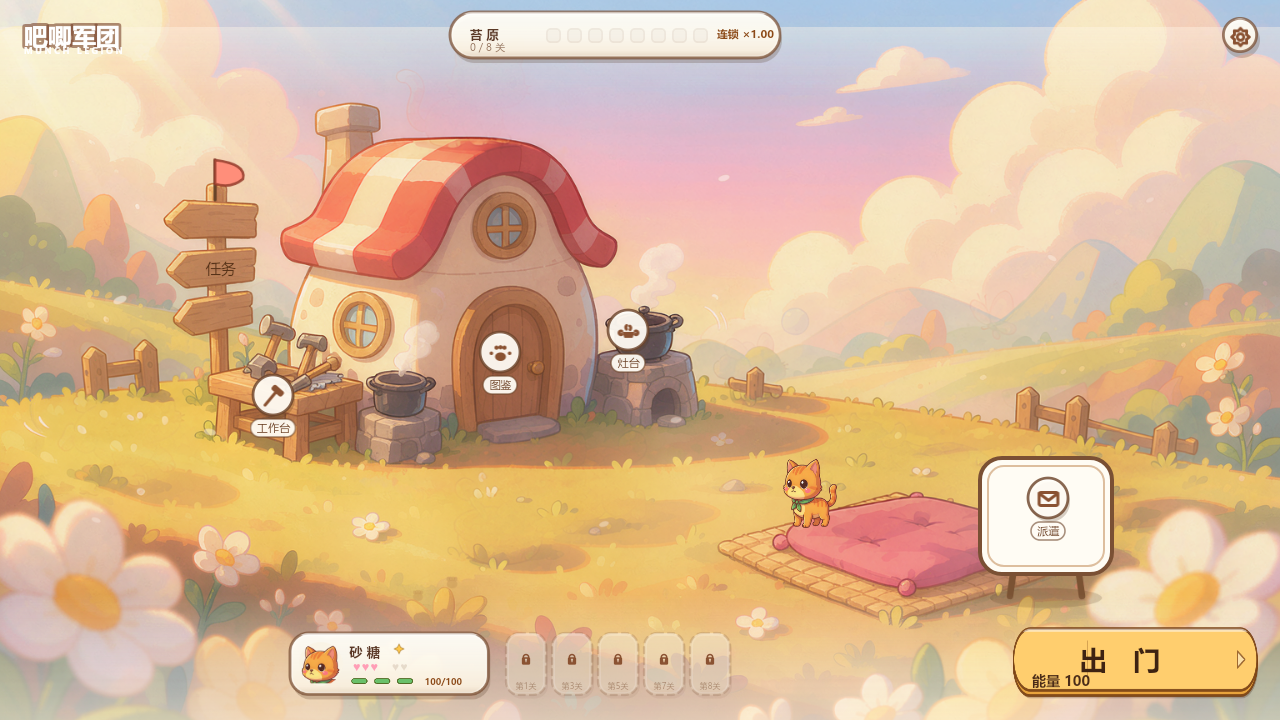
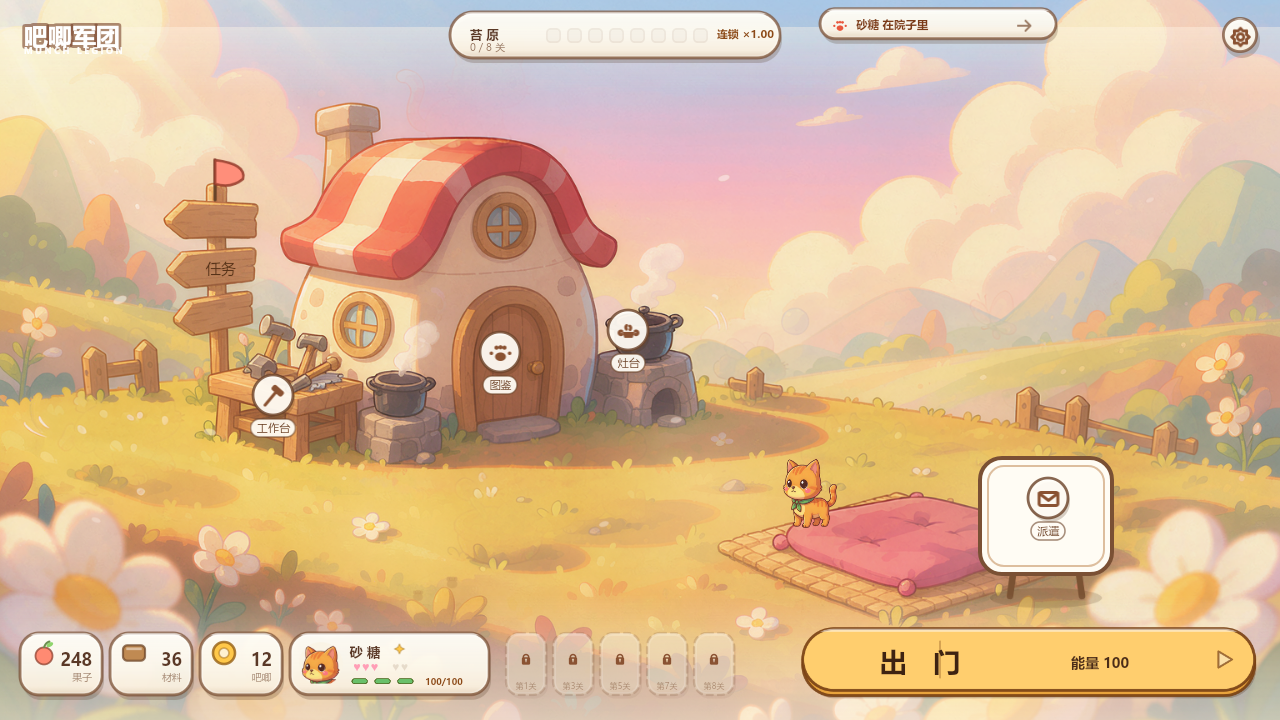
主界面：资源卡搬回 Dock、出门按钮填满空档（补前一个提交漏掉的真 bug）
前一个提交（1b07afd）修了任务/派遣/工作台三处，但用户说的"位置也不对"
还有两个真问题没碰到 —— 它们是离线渲染器自己看不见，才一直没被发现。

一、三张资源卡被搬到右上，整块压在提示条上
  placeResources() 里写的是 right=568 / top=346，也就是把果子/材料/吧唧
  挪到右上角"给院子中间留空"。但那块地方已经有 HudTip（屏幕 965..1208 / 6..46）：
  果子卡 925..1014、材料卡 1022..1111、吧唧卡 1119..1208 ——
  后两张**整块盖在提示条上**。而 Dock 左端 17..282 反过来空出 265px。

  这不是估计，是矩形相交：本次给 _home-rt-shot.js 的 --audit 加了
  "坐标/尺寸是 NaN 就报警"，一跑就报 `HudTip 坐标/尺寸是 NaN：pos(NaN,...)`。

  根因在替身，不在业务代码：`_mock-cc.js` 的 UITransform 缺
  `anchorX` / `anchorY` 两个存取器（真引擎里有）。于是
  `left + w * ut.anchorX` 算出 NaN，节点被 setPosition(NaN,NaN) ——
  **画面上直接消失，而且不报错**。三张资源卡因此在离线渲染里
  凭空失踪了好几轮，"这个位置压着提示条"这件事谁都看不见。

  改：补上 anchorX/anchorY；placeResources 不再搬卡，只把间距从 88 改成 90
  （89 宽的卡按 88 排，相邻两张压 1px，两条 4px 深棕描边叠起来会出现
  一条双倍深的竖线）。三张卡回到 17..286，宠物卡 287 正好接上。

二、出门按钮右侧 278px 空档
  按钮上一版被砍到 248 宽、右缘贴 1260，左边从"星屑"槽的 734
  一路空到 1012 —— 占屏宽 22%，整条底栏读成"左边一堆 + 右边一个孤零零的按钮"。
  改 460 宽（右缘仍 1260，离屏 20），链到槽位后面留 62px 分隔。
  460 不是新数字：场景里这个按钮本来就画成 509 宽，是运行时砍到 248 的。
  按钮变宽后"能量 100"改成居中，否则贴左边、右边一大块空像漏了内容。

三、5 个锁定槽原来按 46 排、卡宽 47 —— 每对相邻槽位也压 1px，
  同样会出双倍深的竖线。改成 47（503/550/597/644/691），正好相接不重叠。

四、_rt-check 的替身补挂场景里的 Label
  以前 buildScene 只挂 UITransform，于是 `getChildByName('line')
  .getComponent(Label)` 拿到 null —— bindDock 里对着 Label 设 alignment
  就崩，而真引擎里那个节点**是有 Label 的**。替身比真引擎少一个组件，
  报出来的错就指错地方。

验收：verify-scene 17/17 · _rt-check 57/57 · align-home-check 0 不过关 ·
HomeRuntime 0 类型错误。
矩形复核（屏幕坐标）：HudProgress 447..784 / HudTip 817..1060 / IconBtn 1219..1262
[…]

diff --git a/client/assets/scripts/HomeRuntime.ts b/client/assets/scripts/HomeRuntime.ts
@@ -577,42 +577,37 @@ class HomeController {
         this.refreshSatiety();
     }
 
-    /** 果子 / 材料 / 吧唧排到右上，给院子中间和左下的宠物留空。 */
+    /**
+     * 三张资源卡**留在 Dock 左端**，并排贴紧。
+     *
+     * 上一版把它们搬到右上角（right=568 / top=346）。那个位置和提示条
+     * HudTip（屏幕 965..1208 / 6..46）**整块重叠** —— 果子卡 925..1014、
+     * 材料卡 1022..1111、吧唧卡 1119..1208，后两张直接盖在提示条上。
+     * 这就是用户说的"位置也不对"。而 Dock 左端 17..282 反过来空出 265px，
+     * 一格宽的空洞比放三张卡还显眼。
+     *
+     * 而且 Dock 本来就是按"左边三张资源卡"排的：宠物卡起点 287
+     * 正好接在 282 后面。所以正确的做法不是给卡找新位置，是**别动它们**。
+     *
+     * 只修一处：场景里三张卡是 89 宽、间距 88，相邻两张压 1px。
+     * 1px 重叠在纯色卡上看不出来，但两张卡都有 4px 深棕描边，
+     * 叠起来会在交界处出现一条双倍深的竖线。改成间距 90（留 1px 缝）。
+     */
     private placeResources() {
         const dock = this.canvas.getChildByName('Dock');
         if (!dock) return;
         const names = ['Res-Apple', 'Res-Log', 'Res-Coin'];
-        const cards: { n: Node; ut: UITransform }[] = [];
+        const LEFT = -623;   // 屏幕 x 17
+        const TOP = -270;    // 屏幕 y 630
+        const GAP = 1;
+        let x = LEFT;
         for (const name of names) {
             const n = dock.getChildByName(name);
             const ut = n && n.getComponent(UITransform);
-            if (n && ut) cards.push({ n, ut });
-        }
-        const gap = 8;
-        const right = 568;
-        const top = 346;
-        const total = cards.reduce((s, c) => s + c.ut.contentSize.width, 0) + gap * Math.max(0, cards.length - 1);
-        let left = right - total;
-        let cardH = 72;
-        for (const c of cards) {
-            const w = c.ut.contentSize.width;
-            cardH = c.ut.contentSize.height;
-            c.n.setPosition(left + w * c.ut.anchorX, top - cardH * (1 - c.ut.anchorY), 0);
-            left += w + gap;
-        }
-
-        /* 提示条原来横在资源卡上面。挪到这一排的下沿，避免和果子叠在一起。 */
-        const tip = this.canvas.getChildByName('HUD')?.getChildByName('HudTip');
-        const tut = tip && tip.getComponent(UITransform);
-        if (tip && tut) {
-            const tw = tut.contentSize.width;
-            const th = tut.contentSize.height;
-            const tipTop = top - cardH - 8;
-            tip.setPosition(
-                right - tw * (1 - tut.anchorX),
-                tipTop - th * (1 - tut.anchorY),
-                0,
-            );
+            if (!n || !ut) continue;
+            /* 两张卡的锚点都是左上，所以 position 就是左上角，不用再算 anchor */
+            n.setPosition(x, TOP, 0);
+            x += ut.contentSize.width + GAP;
         }
     }
 
@@ -950,22 +945,39 @@ class HomeController {
         const root = this.canvas.getChildByName('Dock');
         if (!root) return;
 
-        /* —— 主行动：出门。收到右下角，不再横在院子下沿 —— */
+        /* —— 主行动：出门。收到右下角，但不留空洞 ——
+         *
+         * 上一版 248 宽：按钮右缘贴到 1260，左边就从"星屑"槽的 734
+         * 一路空到 1012 —— 278px、占屏宽 22% 的空洞。
+         * 整条底栏读成"左边一堆东西 + 右边一个孤零零的按钮"。
+         *
+         * 460 宽：右缘仍在 1260（离屏 20），左缘落在 800，
+         * 和槽位之间留 66px 的分隔。460 也不是新数字 ——
+         * 场景里这个按钮本来就画成 509 宽，是运行时把它砍到 248 的。
+         */
+        const GW = 460;
         const go = root.getChildByName('Btn-Go');
         if (go) {
             const gut = go.getComponent(UITransform);
             if (gut) {
-                gut.setContentSize(248, 76);
+                gut.setContentSize(GW, 76);
                 /* 锚点是左上。右缘离屏幕 20，下缘离屏幕 18。告示板在它上方。 */
-                go.setPosition(640 - 20 - 248, -360 + 18 + 76, 0);
+                go.setPosition(640 - 20 - GW, -360 + 18 + 76, 0);
             }
+            /* 子节点坐标是相对**按钮左上角**的。按钮 76 高、中心在 -38：
+               出门字高 34 → -22 时占 22..56；能量行高 16 → -30 时占 30..46；
+               两者中线都在 38 附近，和按钮中线对齐。 */
             const txt = go.getChildByName('txt');
-            if (txt) txt.setPosition(108, -20, 0);
+            if (txt) txt.setPosition(120, -22, 0);
             const line = go.getChildByName('line');
             if (line) {
-                line.setPosition(20, -48, 0);
+                line.setPosition(200, -30, 0);
                 const lut = line.getComponent(UITransform);
                 if (lut) lut.setContentSize(200, 16);
+                /* 居中而不是左对齐：按钮变宽以后左对齐会让"能量 100"这五个字
+                   贴在左边、右边留一大块空，看起来像漏了内容。 */
+                const llb = line.getComponent(Label);
+                if (llb) llb.horizontalAlign = Label.HorizontalAlign.CENTER;
             }
             const sub = go.getChildByName('sub');
             if (sub) sub.active = false;
@@ -978,7 +990,7 @@ class HomeController {
             /* 箭头左右摆：主行动需要一个持续的视觉邀请 */
             const ar = go.getChildByName('ar');
             if (ar) {
-                ar.setPosition(214, -36, 0);
+                ar.setPosition(430, -30, 0);
                 this.arrow = ar;
                 this.arrowBaseX = ar.position.x;
             }
@@ -1842,8 +1854,8 @@ class HomeController {
              转到以画布中心为原点的 Cocos 坐标 —— 中心 (-419, 90)。
            上一版写 (-416, 101)：右 3px、上 9px，字压在木牌的上沿高光线上，
            看起来像"贴纸没贴正"而不是"牌子上写着字"。
-           实测校验：渲染后按墨色 (86,50,24) 取掩膜，字形框 x 210..231 /
-           y 261..272，中心 (220.5, 266.5) —— 与净区中心差 1.5px，收工。 */
+           实测校验：渲染后按墨色 (86,50,24) 取掩膜，字形框 x 208..234 /
+           y 262..275（27×14），中心 (221, 268.5) —— 与净区中心 (221,268) 差 0.5px。 */
         btn.setPosition(-419, 90, 0);
 
         /* **不画底，字直接写在木牌上。**

diff --git a/client/tools/_home-rt-shot.js b/client/tools/_home-rt-shot.js
@@ -164,6 +164,11 @@ function audit() {
         if (ut && hasVisual && ut.contentSize.width > 1 && ut.contentSize.height > 1) {
             const w = ut.contentSize.width * s, h = ut.contentSize.height * s;
             const ax = ut._anchorPoint.x, ay = ut._anchorPoint.y;
+            if (!isFinite(px) || !isFinite(py) || !isFinite(w) || !isFinite(h)) {
+                /* NaN 不会抛错，只会让这一格"从图上消失" —— 报出来，别让它静默 */
+                console.log(`  ⚠ ${n.name} 坐标/尺寸是 NaN：pos(${n._pos.x},${n._pos.y}) ` +
+                    `size(${ut.contentSize.width}×${ut.contentSize.height}) scale(${n._scale.x})`);
+            }
             rects.push({
                 node: n,
                 name: n.name, x0: px - ax * w, y0: py - (1 - ay) * h,
@@ -190,10 +195,14 @@ function audit() {
         for (let n = b.parent; n; n = n.parent) if (n === a) return true;
         return false;
     };
+    /* 背景 / 雾层 / 宠物这三层本来就在所有 UI 底下，和谁"相交"都正常。
+       放进报告只会把真正的重叠淹掉。 */
+    const BACKDROP = /^(BG|FogTop|FogBot|Pets|Camera|Canvas|Scene|Home)$/;
     let hits = 0;
     for (let i = 0; i < rects.length; i++) {
         for (let j = i + 1; j < rects.length; j++) {
             const a = rects[i], b = rects[j];
+            if (BACKDROP.test(a.name) || BACKDROP.test(b.name)) continue;
             /* 父子天然重叠（子节点就画在父板上），不算问题 */
             if (isAncestor(a.node, b.node) || isAncestor(b.node, a.node)) continue;
             const w = Math.min(a.x1, b.x1) - Math.max(a.x0, b.x0);

diff --git a/client/tools/_rt-check.js b/client/tools/_rt-check.js
@@ -32,7 +32,7 @@ Module._resolveFilename = function (request, ...args) {
 };
 
 const cc = require(MOCK);
-const { Node, Scene, UITransform, director, Director } = cc;
+const { Node, Scene, UITransform, Label, director, Director } = cc;
 
 /* ---------- 3. 从真实场景文件构造节点树 ---------- */
 const SCENE = path.join(__dirname, '..', 'assets', 'scenes', 'Home.scene');
@@ -65,6 +65,19 @@ function buildScene() {
                     x: (comp._anchorPoint && comp._anchorPoint.x) ?? 0.5,
                     y: (comp._anchorPoint && comp._anchorPoint.y) ?? 0.5,
                 };
+            } else if (comp.__type__ === 'cc.Label') {
+                /* 场景里的 Label 也要挂上。以前只挂 UITransform，于是
+                   `getChildByName('line').getComponent(Label)` 拿到 null ——
+                   这一点让 bindDock 里对着 Label 设 alignment 的代码直接崩，
+                   而真引擎里那个节点**是有 Label 的**。
+                   替身比真引擎"少一个组件"，报出来的错就会指错地方。 */
+                const lb = node.addComponent(Label);
+                lb.string = comp._string || '';
+                lb.fontSize = comp._fontSize || 20;
+                lb.lineHeight = comp._lineHeight || Math.round(lb.fontSize * 1.35);
+                lb.color = new cc.Color(
+                    comp._color.r, comp._color.g, comp._color.b, comp._color.a);
+                lb.horizontalAlign = comp._horizontalAlign ?? 1;
             }
         }
         for (const cref of (d._children || [])) build(cref.__id__, node);

diff --git a/client/tools/_mock-cc.js b/client/tools/_mock-cc.js
@@ -159,6 +159,15 @@ class UITransform {
     }
     get width() { return this.contentSize.width; }
     get height() { return this.contentSize.height; }
+    /* ⚠ `anchorX` / `anchorY` 是 UITransform 上**独立于 `_anchorPoint`** 的存取器，
+       真引擎里有。缺了它们，`left + w * ut.anchorX` 会算出 NaN，
+       于是节点被 setPosition(NaN, NaN) —— 画面上直接消失，而且**不报错**。
+       placeResources() 正是这么写的：三张资源卡在离线渲染里凭空失踪了好几轮，
+       直到 _home-rt-shot.js 的 --audit 加了 NaN 报警才暴露。 */
+    get anchorX() { return this._anchorPoint.x; }
+    set anchorX(v) { this._anchorPoint.x = v; }
+    get anchorY() { return this._anchorPoint.y; }
+    set anchorY(v) { this._anchorPoint.y = v; }
     /** 测试里 Canvas 位于原点，世界坐标即本地坐标 */
     convertToNodeSpaceAR(v) { return new Vec3(v.x, v.y, v.z || 0); }
 }
